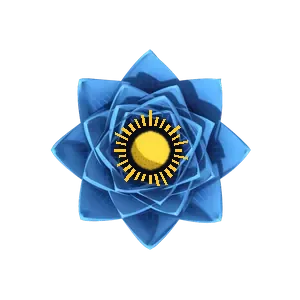
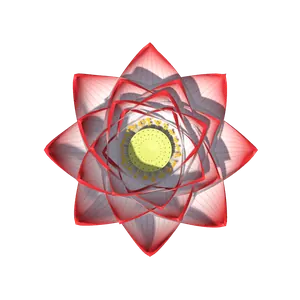
Botão da Lotus: flor vermelha de miolo amarelo, sem fundo, borda ou sombra
Claude-Session: https://claude.ai/code/session_01XJ8bKKm3arNhAerQKpBbQ5

Changed region(s): [[0.15, 0.12, 0.87, 0.87]]

diff --git a/src/components/LotusFlower.js b/src/components/LotusFlower.js
@@ -276,9 +276,9 @@ export function FlyingPetal({ trigger, from, to, color = '#F29BBE' }) {
   );
 }
 
-// Botão flutuante da Lotus (canto inferior direito): uma flor de lótus preta, azul e dourada
-// que funciona como microfone. Respira devagar em repouso e brilha azul quando o mãos livres
-// está ouvindo o "abrir Lotus". Tocar abre o comando de voz.
+// Botão flutuante da Lotus (canto inferior direito): só a flor vermelha de miolo amarelo, sem
+// fundo, que funciona como microfone. Entreaberta e respirando devagar em repouso; abre inteira
+// quando o mãos livres está ouvindo o "abrir Lotus" ou a caixa de voz está aberta.
 export function LotusMic({ hearing, open }) {
   const b = useRef(new Animated.Value(0)).current;
   const g = useRef(new Animated.Value(0)).current;
@@ -298,7 +298,6 @@ export function LotusMic({ hearing, open }) {
   const scale = Animated.add(b.interpolate({ inputRange: [0, 1], outputRange: [1, 1.06] }), g.interpolate({ inputRange: [0, 1], outputRange: [0, 0.06] }));
   return (
     <View style={styles.micWrap} pointerEvents="none">
-      <Animated.View style={[styles.micGlow, { opacity: g }]} />
       <Animated.Image source={FAB[0]} fadeDuration={0} resizeMode="contain" style={[styles.micFlower, { opacity: g.interpolate({ inputRange: [0, 1], outputRange: [1, 0] }), transform: [{ scale }] }]} />
       <Animated.Image source={FAB[1]} fadeDuration={0} resizeMode="contain" style={[styles.micFlower, { opacity: g, transform: [{ scale }] }]} />
     </View>
@@ -306,9 +305,8 @@ export function LotusMic({ hearing, open }) {
 }
 
 const styles = StyleSheet.create({
-  micWrap: { width: 52, height: 52, alignItems: 'center', justifyContent: 'center' },
-  micGlow: { position: 'absolute', width: 52, height: 52, borderRadius: 26, backgroundColor: 'rgba(47,134,255,0.35)' },
-  micFlower: { position: 'absolute', width: 50, height: 50 },
+  micWrap: { width: 60, height: 60, alignItems: 'center', justifyContent: 'center' },
+  micFlower: { position: 'absolute', left: 0, top: 0, width: 60, height: 60 },
   // Faixa da largura inteira da caixa; a flor fica no meio exato, na horizontal e na vertical.
   stage: { alignSelf: 'stretch', height: STAGE, alignItems: 'center', justifyContent: 'center' },
   // Luz, raios e flor ficam todos no mesmo quadro, com o mesmo centro exato.

diff --git a/App.js b/App.js
@@ -298,7 +298,7 @@ function Shell() {
         activeOpacity={0.85}
         accessibilityLabel="Falar com a Lotus"
       >
-        {/* A Lotus é o microfone: flor preta, azul e dourada no lugar do antigo ícone de mic. */}
+        {/* A Lotus é o microfone: só a flor vermelha de miolo amarelo, sem fundo. */}
         <LotusMic hearing={state.handsFree && hearing} open={voice} />
       </TouchableOpacity>
 
@@ -511,23 +511,14 @@ const styles = StyleSheet.create({
     ...soft,
     elevation: 4,
   },
+  // Botão da Lotus: só o desenho da flor, sem fundo, sem borda e sem sombra.
   fab: {
     position: 'absolute',
-    right: 18,
+    right: 14,
     bottom: 84,
-    width: 56,
-    height: 56,
-    borderRadius: 28,
-    backgroundColor: '#05070D',
-    borderWidth: 1.5,
-    borderColor: colors.gold,
+    width: 60,
+    height: 60,
     alignItems: 'center',
     justifyContent: 'center',
-    overflow: 'hidden',
-    elevation: 6,
-    shadowColor: '#2F86FF',
-    shadowOpacity: 0.25,
-    shadowRadius: 12,
-    shadowOffset: { width: 0, height: 4 },
   },
 });

diff --git a/tools/lotus3d/gen.py b/tools/lotus3d/gen.py
@@ -10,5 +10,5 @@ for m,(body,tip,base) in moods.items():
         a=2*math.pi*i/6
         jobs.append({'f':f'raw/{m}_idle_{i:02d}.png','o':{'b':1-0.035*(1-math.cos(a)),'pad':False,'elev':90,'dist':5.2,'target':0.2,'rot':2.5*math.sin(a),'body':body,'tip':tip,'base':base,'gold':False}})
 for i,b in enumerate([0.55,1.0]):
-    jobs.append({'f':f'raw/fab_{i}.png','o':{'b':b,'pad':False,'elev':90,'dist':5.2,'target':0.2,'body':'#163A8C','tip':'#4FA3FF','base':'#07080D','gold':True}})
+    jobs.append({'f':f'raw/fab_{i}.png','o':{'b':b,'pad':False,'elev':90,'dist':5.2,'target':0.2,'body':'#FFF2F0','tip':'#D3262B','base':'#F6E3B4','gold':False}})
 open('jobs.json','w').write(json.dumps(jobs))

diff --git a/tools/lotus3d/render.py b/tools/lotus3d/render.py
@@ -15,9 +15,6 @@ with sync_playwright() as p:
         name = os.path.basename(j['f']).replace('.png', '.webp')
         # recorte quadrado fixo e centrado: a flor fica sempre no meio
         im = im.crop((64, 64, 960, 960)).resize((300, 300), Image.LANCZOS)
-        # dourado do miolo mais vivo (flor padrão e botão flutuante)
-        if name.startswith('fab_'):
-            im = clear_stamens(vivid_gold(im), bars=name.startswith('fab_'))
         im.save(os.path.join(OUT, name), 'WEBP', quality=78, method=6)
         print(name)
     b.close()
